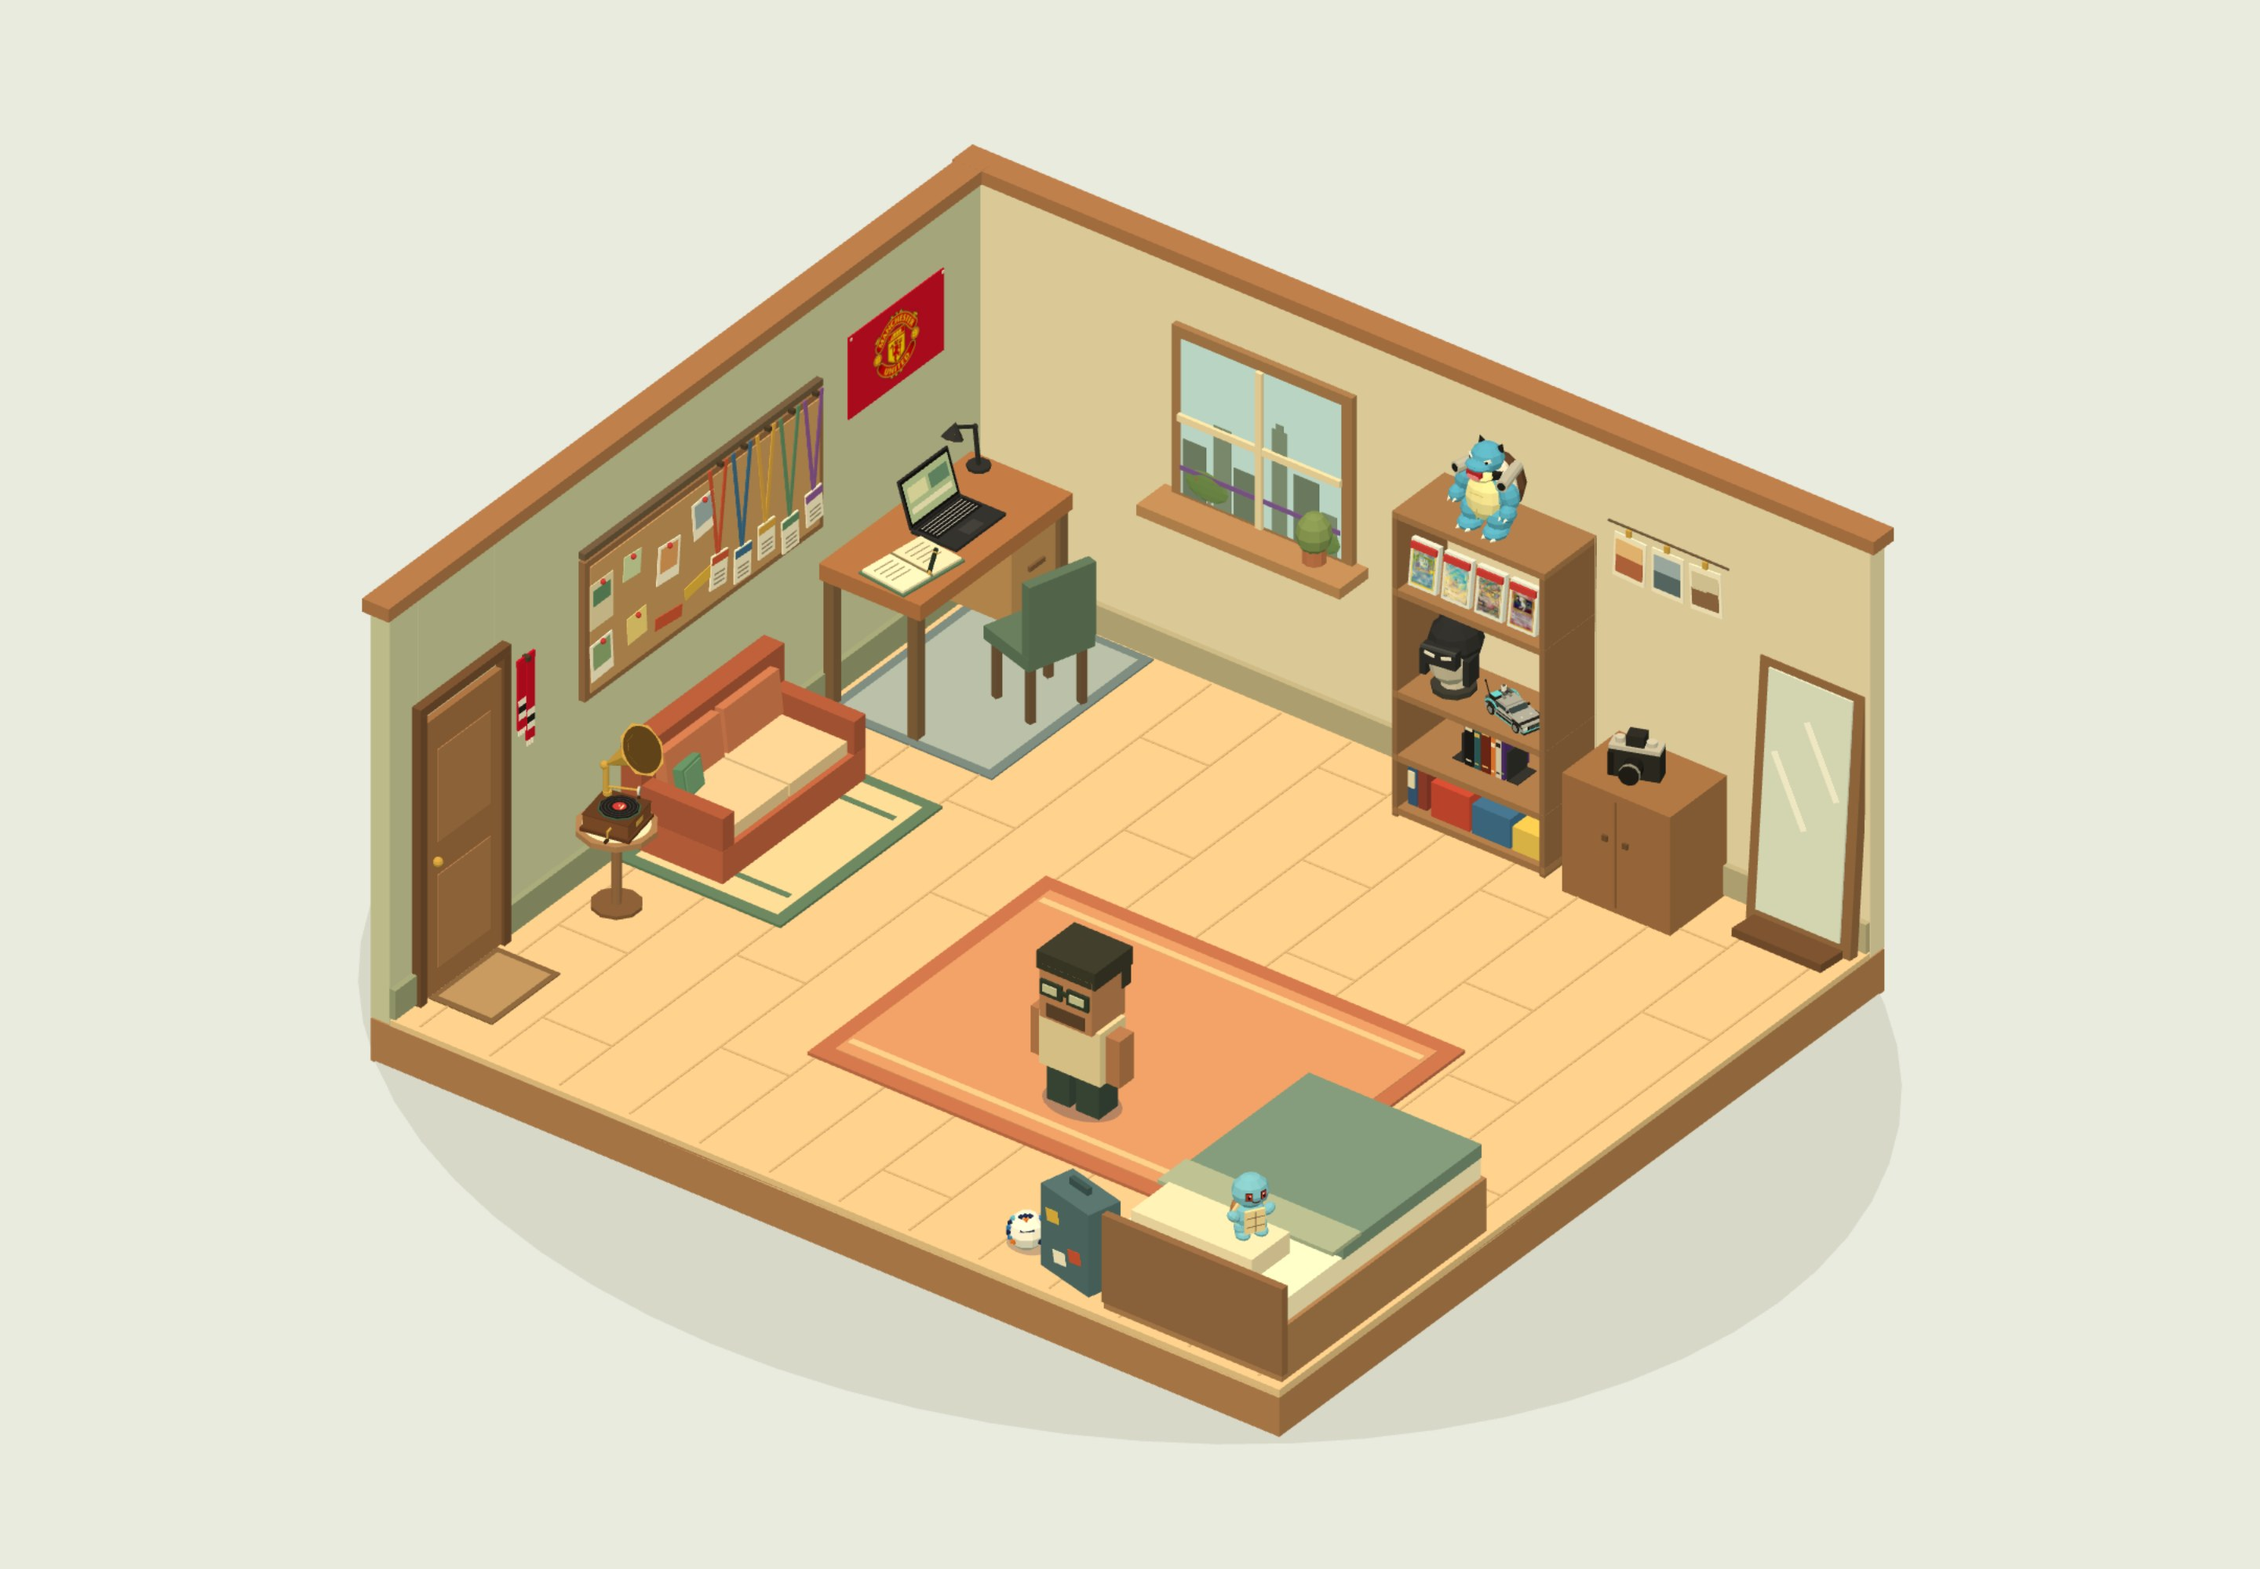
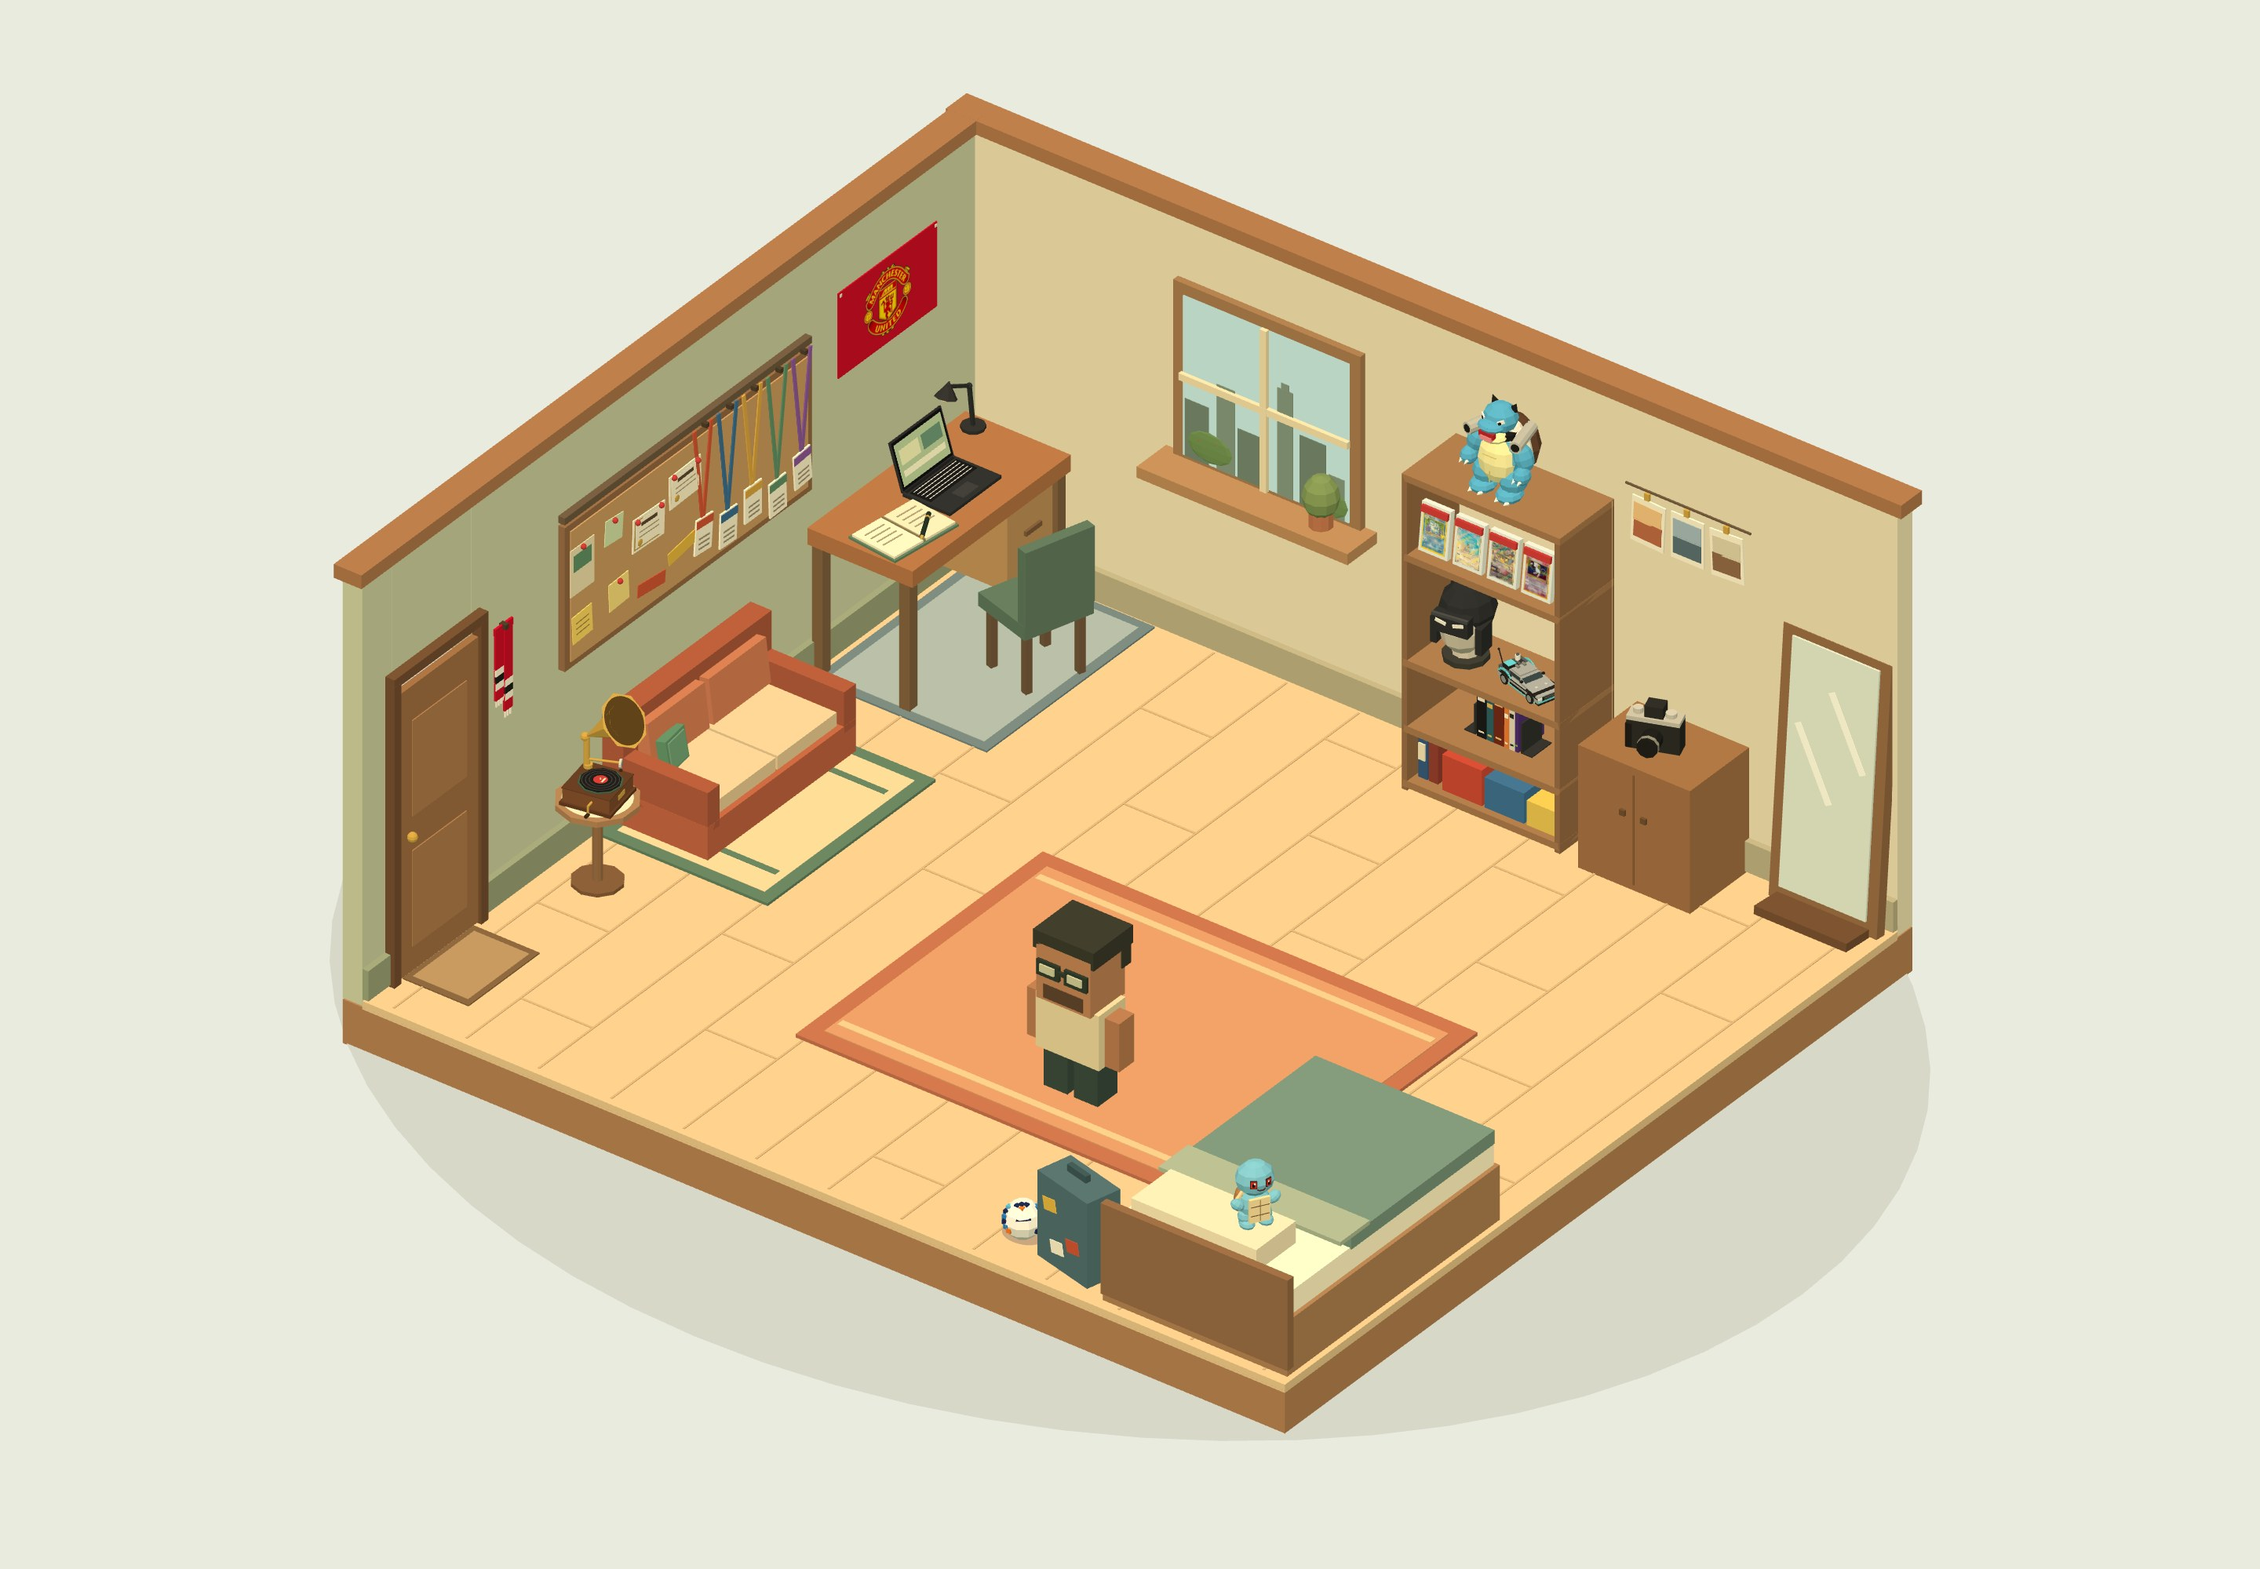
Remove the character shadow and refresh the world OG image
Remove the oval character shadow and regenerate the room images. Add a new 1200x630 PNG with the actual room and update the shared OG/Twitter URL. Stabilize the existing bed movement check.

Changed region(s): [[0.125, 0.062, 0.875, 0.93]]

diff --git a/og/og.html b/og/og.html
@@ -1,7 +1,8 @@
 <!doctype html>
-<html>
+<html lang="en">
 	<head>
 		<meta charset="utf-8" />
+		<title>Aditya Oberai's world</title>
 		<style>
 			@font-face {
 				font-family: 'Newsreader';
@@ -9,23 +10,6 @@
 					format('woff2');
 				font-weight: 200 800;
 				font-style: normal;
-			}
-			@font-face {
-				font-family: 'Newsreader';
-				src: url('../node_modules/@fontsource-variable/newsreader/files/newsreader-latin-opsz-italic.woff2')
-					format('woff2');
-				font-weight: 200 800;
-				font-style: italic;
-			}
-			/* V3 palette, shared with the site and the room. */
-			:root {
-				--paper: #f8f5ed;
-				--room: #e9ebdf;
-				--ink: #1f2620;
-				--ink-soft: #3a473d;
-				--secondary: #5f6555;
-				--hairline: #dedbcf;
-				--accent: #304e42;
 			}
 			* {
 				box-sizing: border-box;
@@ -39,96 +23,56 @@
 				overflow: hidden;
 			}
 			body {
-				display: grid;
-				grid-template-columns: 470px 1fr;
-				gap: 36px;
-				padding: 52px 52px 52px 64px;
-				background: var(--paper);
-				color: var(--ink);
+				position: relative;
+				background: #e9ebdf;
+				color: #1f2620;
 				font-family: 'Newsreader', Georgia, serif;
 				font-optical-sizing: auto;
 				-webkit-font-smoothing: antialiased;
 			}
 			.text {
-				display: flex;
-				flex-direction: column;
-			}
-			.site {
-				font-size: 24px;
-				font-style: italic;
-				font-weight: 500;
-			}
-			.mono {
-				font-family: ui-monospace, 'Cascadia Mono', Consolas, Menlo, monospace;
-				font-size: 15px;
-				letter-spacing: 0.08em;
-				text-transform: uppercase;
-				color: var(--secondary);
-			}
-			.role {
-				margin-top: 10px;
+				position: absolute;
+				z-index: 1;
+				top: 198px;
+				left: 64px;
+				width: 440px;
 			}
 			h1 {
-				margin-top: auto;
-				font-size: 68px;
-				line-height: 1.04;
+				font-size: 62px;
+				line-height: 1.1;
 				font-weight: 500;
-				letter-spacing: -0.035em;
+				letter-spacing: -0.025em;
+				white-space: nowrap;
 			}
-			.lede {
-				margin-top: 22px;
-				font-size: 25px;
-				line-height: 1.4;
-				color: var(--ink-soft);
+			.invitation {
+				margin-top: 28px;
+				color: #3a473d;
+				font-size: 36px;
+				line-height: 1.18;
 			}
-			.modes {
-				display: flex;
-				gap: 6px;
-				margin-top: auto;
-				padding: 5px;
-				width: max-content;
-				border: 1px solid #c9c4b6;
-				border-radius: 999px;
-				font:
-					600 14px/1 system-ui,
-					sans-serif;
-				letter-spacing: 0.08em;
+			.domain {
+				position: absolute;
+				left: 64px;
+				bottom: 46px;
+				color: #304e42;
+				font-size: 21px;
+				line-height: 1.2;
 			}
-			.modes span {
-				padding: 12px 20px;
-				border-radius: 999px;
-				color: #55574d;
-			}
-			.modes .on {
-				background: var(--accent);
-				color: #fffdf6;
-			}
-			.frame {
-				overflow: hidden;
-				border: 1px solid #d3d5c3;
-				border-radius: 12px;
-				background: var(--room);
-			}
-			.frame img {
-				display: block;
-				width: 100%;
-				height: 100%;
-				object-fit: cover;
-				object-position: 50% 57%;
-				/* The capture is full-page; zoom so the room fills the card. */
-				transform: scale(1.04);
-				transform-origin: 50% 57%;
+			.room {
+				position: absolute;
+				top: 19px;
+				left: 355px;
+				width: 920px;
+				height: auto;
 			}
 		</style>
 	</head>
 	<body>
+		<img class="room" src="room.jpg" width="2880" height="2000" alt="Aditya's illustrated room" />
 		<div class="text">
-			<div class="site">adityaoberai.com</div>
-			<div class="mono role">Aditya Oberai · Developer Relations at Appwrite</div>
-			<h1>Come spend a minute in my world.</h1>
-			<p class="lede">Walk around my room, or skim the Index.</p>
-			<div class="modes"><span class="on">WORLD</span><span>INDEX</span></div>
+			<h1>Aditya Oberai</h1>
+			<p class="invitation">Come spend a minute<br />in my world.</p>
 		</div>
-		<div class="frame"><img src="room.jpg" alt="" /></div>
+		<p class="domain">adityaoberai.com</p>
 	</body>
 </html>

diff --git a/tests/browser/world.spec.ts b/tests/browser/world.spec.ts
@@ -199,14 +199,11 @@ test('trying to sleep on the bed turns the character away, and Frost’s poem po
 	await expect(canvas).toHaveAttribute('data-x', '1.250');
 	await expect(page.locator('.room-hint')).not.toContainText('Press E to sleep');
 	await page.keyboard.down('d');
-	await page.waitForTimeout(200);
-	await page.keyboard.up('d');
 	await expect(page.locator('.room-hint')).toContainText('Press E to sleep');
+	await page.keyboard.up('d');
 	await page.keyboard.press('e');
 	// The whole poem, with its last two lines in bold.
 	await expect(poem).toBeVisible();
-	await expect(canvas).toHaveAttribute('data-x', '1.600');
-	await expect(canvas).toHaveAttribute('data-z', '1.850');
 	await expect(poem).toContainText('Whose woods these are I think I know.');
 	await expect(poem).toContainText('Robert Frost');
 	await expect(poem.locator('strong')).toHaveText([
@@ -216,15 +213,20 @@ test('trying to sleep on the bed turns the character away, and Frost’s poem po
 	// E closes it, and the room has the keyboard again.
 	await page.keyboard.press('e');
 	await expect(poem).not.toBeVisible();
+	await expect(page.getByRole('button', { name: 'Room menu', exact: true })).toBeVisible();
 	await expect(canvas).toBeFocused();
 	const x = await canvas.getAttribute('data-x');
 	await page.keyboard.down('a');
-	await page.waitForTimeout(300);
-	await page.keyboard.up('a');
 	await expect(canvas).not.toHaveAttribute('data-x', x!);
+	await page.keyboard.up('a');
 	// Clicking the bed from across the room walks over to it first.
 	await openRoom(page);
 	await settle(page);
+	// The room remembers the previous position, so explicitly walk away first.
+	const across = await floor(page, 0, 0);
+	await page.mouse.click(across.x, across.y);
+	await expect.poll(async () => Number(await canvas.getAttribute('data-x'))).toBeCloseTo(0, 3);
+	await expect.poll(async () => Number(await canvas.getAttribute('data-z'))).toBeCloseTo(0, 3);
 	// The blanket near the foot: the plush sits over the middle of the bed on screen.
 	const bed = await page.evaluate(() =>
 		(window as unknown as { __room: { project: (p: number[]) => Anchor } }).__room.project([

diff --git a/src/lib/world/scene.ts b/src/lib/world/scene.ts
@@ -355,10 +355,6 @@ export function createRoom(canvas: HTMLCanvasElement, options: Options) {
 		return leg;
 	});
 	const disc = keep(new CircleGeometry(1, 24));
-	const shadow = new Mesh(disc, own(new MeshBasicMaterial({ color: '#b68462' })));
-	shadow.rotation.x = -Math.PI / 2;
-	shadow.scale.set(0.28, 0.2, 1);
-	roomRoot.add(shadow);
 	const targetMarker = new Mesh(disc, own(new MeshBasicMaterial({ color: '#f1d8a7' })));
 	targetMarker.rotation.x = -Math.PI / 2;
 	targetMarker.scale.set(0.12, 0.12, 1);
@@ -593,7 +589,6 @@ export function createRoom(canvas: HTMLCanvasElement, options: Options) {
 		seated = station;
 		characterPlacement.position.set(seat.x, seat.lift, seat.z);
 		character.rotation.y = seat.facing;
-		shadow.visible = false;
 		pose();
 	}
 	// Back on the floor at the station's approach point, facing where it sat.
@@ -602,8 +597,6 @@ export function createRoom(canvas: HTMLCanvasElement, options: Options) {
 		const { approach } = seated;
 		seated = null;
 		characterPlacement.position.set(approach.x, 0, approach.z);
-		shadow.position.set(approach.x, 0.064, approach.z);
-		shadow.visible = true;
 		pose();
 	}
 	function setPosition(point: Point) {
@@ -611,7 +604,6 @@ export function createRoom(canvas: HTMLCanvasElement, options: Options) {
 		const dz = (point.z - characterPlacement.position.z) * depthScale;
 		if (Math.hypot(dx, dz) > 0.001) character.rotation.y = Math.atan2(dx, dz);
 		characterPlacement.position.set(point.x, 0, point.z);
-		shadow.position.set(point.x, 0.064, point.z);
 	}
 	function face(point: Vec3) {
 		character.rotation.y = Math.atan2(
@@ -1001,7 +993,6 @@ export function createRoom(canvas: HTMLCanvasElement, options: Options) {
 			unlitMesh.geometry = geometry.unlit;
 			collectionPictures.geometry = geometry.faces;
 			flagPictures.geometry = geometry.flag;
-			shadow.scale.y = 0.2 / depthScale;
 			targetMarker.scale.y = 0.12 / depthScale;
 			nearRing.scale.y = 1 / depthScale;
 			for (const { station, mesh } of stationHits) {

diff --git a/og/render.js b/og/render.js
@@ -1,4 +1,4 @@
-// Renders og/og.html to static/og.png with headless Chrome (1200x630 at 2x).
+// Renders og/og.html to static/og.png with headless Chrome (1200x630).
 import { execFileSync } from 'node:child_process';
 import { existsSync } from 'node:fs';
 import { resolve } from 'node:path';
@@ -28,7 +28,7 @@ execFileSync(
 		'--disable-gpu',
 		'--hide-scrollbars',
 		'--window-size=1200,630',
-		'--force-device-scale-factor=2',
+		'--force-device-scale-factor=1',
 		'--virtual-time-budget=4000',
 		`--screenshot=${out}`,
 		pathToFileURL(resolve('og/og.html')).href

diff --git a/src/lib/data/site.ts b/src/lib/data/site.ts
@@ -6,7 +6,7 @@ export const site = {
 		'Aditya Oberai is a DevRel practitioner, writer, speaker, and community builder helping developer tools communicate better, teach better, and build stronger developer communities.',
 	// Canonical domain for V3 (oberai.dev redirects are a hosting task; see v3.md).
 	url: 'https://adityaoberai.com',
-	ogImage: 'https://adityaoberai.com/og.png',
+	ogImage: 'https://adityaoberai.com/og.png?v=world-20261027',
 	email: 'aditya@oberai.dev',
 	twitterHandle: '@adityaoberai',
 	portrait: '/aditya.jpg',

diff --git a/WORKLOG.md b/WORKLOG.md
@@ -49,6 +49,18 @@
 
 ## Change log
 
+### 2026-10-27 — A new share image for the room
+
+- Replaced the old OG composition with a 1200x630 image led by the current 3D room, Aditya's name, the personal invitation, and the domain. Used the existing room palette and Newsreader, with the updated scene without the character shadow.
+- Updated the OG renderer to output the actual size advertised in page metadata, and versioned the shared OG/Twitter image URL so preview services request the new asset.
+- Validation: verified the exported and served PNG are identical and exactly 1200x630, both OG and Twitter metadata use the new versioned URL, and Newsreader loads with the name fitting its text column. Visually checked the complete room and text layout.
+
+### 2026-10-27 — Remove the character's floor shadow
+
+- Removed the oval floor-shadow mesh beneath the character and its movement, seating, and portrait-resize updates.
+- Stabilized the existing bed check by waiting for its nearby hint, restored room controls, and actual movement. Its cross-room interaction now explicitly walks away after restoring the previous position; the nearby interaction accepts stopping beside the bed instead of requiring its exact walk-up point.
+- Regenerated the loading still and room/share images from the updated scene. Type checks report 0 errors/0 warnings; lint and the production build pass. All five focused browser cases pass for movement, seating, bed interaction, portrait resizing, and joystick input. Visually verified the shadow is absent on desktop and mobile without page errors. This is a follow-up to the user-authorized merge of PR #13; publish to `v3-world` and open a new PR into `main`.
+
 ### 2026-10-27 — Label the room shelf Collectibles
 
 - Renamed the shelf's room heading, preview action label, nearby-object hint, and room-menu entry to Collectibles, reflecting the cards, Batman cowl, DeLorean, and books. The dedicated card collection page and its site-navigation label remain Pokémon.

diff --git a/og/README.md b/og/README.md
@@ -1,6 +1,6 @@
 # OG image
 
-`og.html` is the source for `static/og.png`. It uses the V3 palette, the Newsreader font files, and `room.jpg`, a high-resolution capture of the room.
+`og.html` is the source for `static/og.png`, a 1200x630 share image featuring Aditya's actual room, name, invitation, and domain. It uses the room's palette, Newsreader, and `room.jpg`, a high-resolution capture of the current scene.
 
 Regenerate after the room or the copy changes:
 
@@ -11,4 +11,4 @@ npm run assets       # rewrites og/room.jpg, static/room-still.jpg, static/adity
 npm run og           # renders og.html to static/og.png
 ```
 
-`npm run assets` (`scripts/derive-assets.mjs`) pins the Bengaluru clock to 11:00 so the window shows a daytime sky, and hides the room's overlays before capturing. `npm run og` finds Chrome or Edge (or uses the `CHROME` env var) and screenshots the page at 1200x630 with a 2x device scale factor.
+`npm run assets` (`scripts/derive-assets.mjs`) pins the Bengaluru clock to 11:00 so the window shows a daytime sky, and hides the room's overlays before capturing. `npm run og` finds Chrome or Edge (or uses the `CHROME` env var) and screenshots the page at 1200x630. Update the image version in `src/lib/data/site.ts` after changing it so share previews request the new image.
